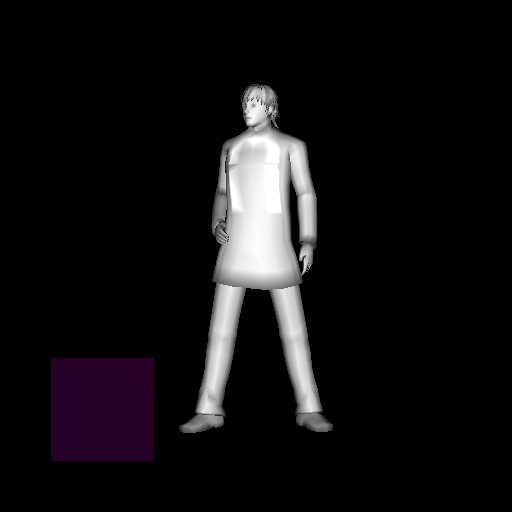
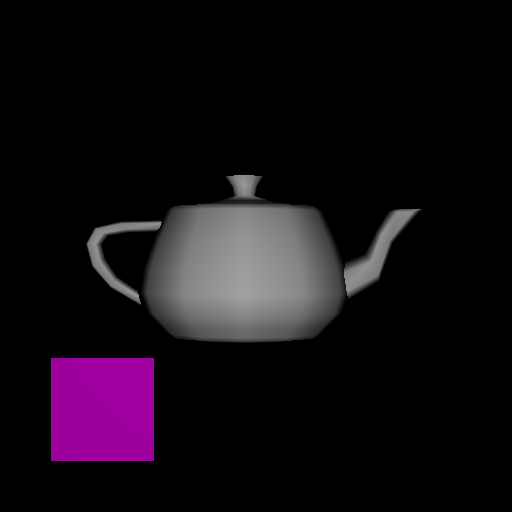
Added support for mulitple samples with a grid distribution

Changed region(s): [[0.1562, 0.1562, 0.8125, 0.8438], [0.0938, 0.6875, 0.3125, 0.9062]]

diff --git a/rt/src/rt/testscenes/TriangleTest.java b/rt/src/rt/testscenes/TriangleTest.java
@@ -45,7 +45,7 @@ public class TriangleTest extends Scene {
 		
 		// Specify which integrator and sampler to use
 		integratorFactory = new PointLightIntegratorFactory();
-		samplerFactory = new OneSamplerFactory();
+		samplerFactory = new GridSamplerFactory();
 			
 		// Make a triangle. Note: convention is that vertex order is counter
 		// clockwise when triangle is seen from outside (outside is by convention
@@ -63,7 +63,7 @@ public class TriangleTest extends Scene {
 		Mesh mesh;
 		try
 		{
-			mesh = ObjReader.read("../obj/male.obj", 0.5f);
+			mesh = ObjReader.read("../obj/teapot.obj", 0.5f);
 		} catch(IOException e) 
 		{
 			System.out.printf("Could not read .obj file\n");
@@ -88,7 +88,7 @@ public class TriangleTest extends Scene {
 		//intersectableList.add(s1);
 		//intersectableList.add(p1);
 		
-		PointLight light = new PointLight(new Vector3f(0.f, 0.f, 3.f), new Spectrum(.5f,.5f,.5f));
+		PointLight light = new PointLight(new Vector3f(0.f, 0.f, 3.f), new Spectrum(2.f,2.f,2.f));
 		lightList = new LightList();
 		lightList.add(light);
 		

diff --git a/rt/src/rt/samplers/GridSampler.java b/rt/src/rt/samplers/GridSampler.java
@@ -1,0 +1,38 @@
+package rt.samplers;
+
+import rt.Sampler;
+
+public class GridSampler implements Sampler{
+
+	@Override
+	public float[][] makeSamples(int n, int d) {
+		
+		float[][] samples = new float[n][d];
+		
+		int columns = (int)Math.sqrt(n);  //Standard is a 1:1 grid
+		float offsetX = 1.f/columns;
+		int rows = columns;
+		
+		for(int i = 1;i <= n-columns*columns; i++){  //Works out if the number of rows can be increased 
+			if(columns*(columns+i) <= n){
+				rows++;
+			}
+		}
+		float offsetY = 1.f/rows; //x offset
+		
+		int counter = 0; //Counts the position in the sample array
+		
+		for(int i = 0; i < columns; i++){  //columns
+			for(int e = 0;e < columns;e++){  //rows
+				samples[counter][0] = offsetX*i + offsetX/2;  //x position is the grid position plus centre-offset
+				samples[counter][1] = offsetY*e + offsetY/2;
+				counter++;
+				
+			} 
+		}
+		
+		return samples;
+
+	}
+
+}

diff --git a/rt/src/rt/testscenes/CameraTestScene.java b/rt/src/rt/testscenes/CameraTestScene.java
@@ -28,7 +28,7 @@ public class CameraTestScene extends Scene {
 		height = 720;
 		
 		// Number of samples per pixel
-		SPP = 1;
+		SPP = 10;
 		
 		// Specify which camera, film, and tonemapper to use
 		//Point3f eye = new Point3f(0.5f, 0.5f, 3.f);
@@ -48,8 +48,8 @@ public class CameraTestScene extends Scene {
 		
 		// Specify which integrator and sampler to use
 		integratorFactory = new TrivialIntegratorFactory();
-		samplerFactory = new OneSamplerFactory();
-	//	samplerFactory = new RandomSamplerFactory();	
+	//	samplerFactory = new OneSamplerFactory();
+		samplerFactory = new RandomSamplerFactory();	
 		
 		// Define some objects to be added to the scene. 
 		// 5 planes can be used to define a box (with never ending walls).

diff --git a/rt/src/rt/cameras/PinholeCamera.java b/rt/src/rt/cameras/PinholeCamera.java
@@ -77,8 +77,8 @@ public class PinholeCamera implements Camera {
 		// TODO: Create a ray that originates in eye and goes through pixel (i, j) with offset given from sample[]. 
 		// HINT: Make sure the direction of the ray is normalized.
 		
-		float u = (float) (-t + (2*t)*((i+0.5)/width));
-		float v = (float) (-r + (2*r)*((j+0.5)/height));
+		float u = (float) (-t + (2*t)*((i+sample[0])/width));
+		float v = (float) (-r + (2*r)*((j+sample[1])/height));
 		
 		/*Vector3f p = new Vector3f();
 		

diff --git a/rt/src/rt/samplers/RandomSampler.java b/rt/src/rt/samplers/RandomSampler.java
@@ -24,7 +24,11 @@ public class RandomSampler implements Sampler {
 	public float[][] makeSamples(int n, int d)
 	{
 		float samples[][] = new float[n][d];		
-		// TODO: Generate random samples.
+		for(int i = 0;i < samples.length;i++){
+			for(int e = 0;e < samples[0].length;e++){
+				samples[i][e] = (float) Math.random();
+			}
+		}
 		return samples;
 	}
 	

diff --git a/rt/src/rt/Main.java b/rt/src/rt/Main.java
@@ -13,8 +13,8 @@ public class Main {
 	 * The scene to be rendered. Change at will.
 	 */
 
-	public static Scene scene = new SphereTest();
-	//public static Scene scene = new TriangleTest();
+	//public static Scene scene = new SphereTest();
+	public static Scene scene = new TriangleTest();
 	//public static Scene scene = new CameraTestScene();
 	
 

diff --git a/rt/src/rt/samplers/GridSamplerFactory.java b/rt/src/rt/samplers/GridSamplerFactory.java
@@ -1,0 +1,15 @@
+package rt.samplers;
+
+import rt.Sampler;
+import rt.SamplerFactory;
+
+/**
+ * Makes a {@link RandomSampler}.
+ */
+public class GridSamplerFactory implements SamplerFactory {
+
+	public Sampler make() {
+		return new GridSampler();
+	}
+
+}
